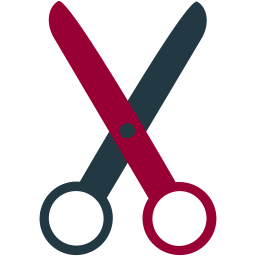
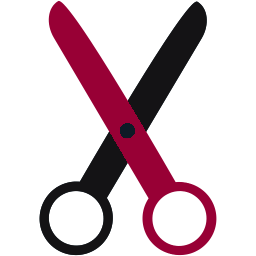
Updating the styles and the copy per Nikki's Feedback

Changed region(s): [[0.125, 0.0, 0.8125, 1.0]]

diff --git a/css/business-casual.min.css b/css/business-casual.min.css
@@ -1,1 +1,1 @@
-body{font-family:'Work Sans';background:linear-gradient(rgba(255,255,255,.65),rgba(216,216,216,.65)),url(../img/bg.jpg)}h1,h2,h3,h4,h5,h6{font-family:Raleway}p{line-height:1.75}.text-faded{color:rgba(255,255,255,.3)}.site-heading{margin-top:2rem;margin-bottom:2rem;line-height:1;font-family:Raleway}.site-heading .site-heading-upper{display:block;font-size:2rem;font-weight:800;letter-spacing:.1em;color:#980035!important}.site-heading .site-heading-lower{font-size:5rem;font-weight:100;line-height:4rem;text-transform:uppercase;color:#223843}.page-section{margin-top:5rem;margin-bottom:5rem}.section-heading{text-transform:uppercase}.section-heading .section-heading-upper{display:block;font-size:1rem;font-weight:800}.section-heading .section-heading-lower{display:block;font-size:3rem;font-weight:100}.bg-faded{background-color:rgba(216,216,216,.85)}#mainNav{background-color:#223843;font-family:Raleway;padding:10px 0!important}#mainNav .navbar-brand{color:#ff5e5b}#mainNav .navbar-nav .nav-item{cursor:pointer}#mainNav .navbar-nav .nav-item .nav-link{color:rgba(255,255,255,.7);border-bottom:2px solid transparent;transition:border-color .5s linear,color .5s linear;font-weight:400}#mainNav .navbar-nav .nav-item .nav-link:hover{color:#fff;border-color:#fff}#mainNav .navbar-nav .nav-item.active .nav-link,#mainNav .navbar-nav .nav-item.active:hover .nav-link{color:#fff;border-color:#980035}@media (min-width:992px){#mainNav .navbar-nav .nav-item .nav-link{font-size:.9rem}#mainNav .navbar-nav .nav-item .nav-link:hover{color:rgba(255,255,255,.4)}#mainNav .navbar-nav .nav-item.active .nav-link:hover{border-color:#fff}}.instagram-icon{width:25px;height:25px;background-image:url(../img/instagram-icon.png);background-repeat:no-repeat;display:inline-block;background-size:cover;vertical-align:middle;margin-right:10px}.btn-xl{font-size:.8rem;padding-top:1.5rem;padding-bottom:1.5rem;padding-left:2rem;padding-right:2rem;box-shadow:0 1px 3px rgba(0,0,0,.12),0 1px 2px rgba(0,0,0,.24);transition:all .3s cubic-bezier(.25,.8,.25,1)}.btn-xl:hover{box-shadow:0 7px 7px rgba(0,0,0,.25),0 10px 10px rgba(0,0,0,.22)}.btn{box-shadow:0 1px 3px rgba(0,0,0,.12),0 1px 2px rgba(0,0,0,.24);transition:all .3s cubic-bezier(.25,.8,.25,1)}.btn:hover{box-shadow:0 7px 7px rgba(0,0,0,.25),0 10px 10px rgba(0,0,0,.22)}.btn-secondary{background:#223843;border:none}.btn-secondary:hover{background:#000}.intro{position:relative}@media (min-width:992px){.intro .intro-img{width:75%;float:right}.intro .intro-text{left:0;width:60%;margin-top:3rem;position:absolute}.intro .intro-text .intro-button{width:100%;left:0;position:absolute;bottom:-2rem}}@media (min-width:1200px){.intro .intro-text{width:45%}}.home-cta{margin:30px auto 0 auto}.page-section.cta{margin-bottom:0}.cta{padding-top:5rem;padding-bottom:5rem;background-color:rgba(152,0,53,.9)}.cta .cta-inner{position:relative;padding:3rem;margin:.5rem;background-color:rgba(255,255,255,.85)}.cta .cta-inner:before{border-radius:.5rem;content:'';position:absolute;top:-.5rem;bottom:-.5rem;left:-.5rem;right:-.5rem;border:.25rem solid rgba(255,255,255,.85)}@media (min-width:992px){.about-heading .about-heading-img{position:relative;z-index:0}.about-heading .about-heading-content{margin-top:-5rem;position:relative;z-index:1}}@media (min-width:992px){.product-item .product-item-title{position:relative;z-index:1;margin-bottom:-3rem}.product-item .product-item-img{position:relative;z-index:0;max-width:60vw}.product-item .product-item-description{position:relative;z-index:1;margin-top:-3rem;max-width:50vw}}.contact-form iframe{max-width:100%;height:800px}.list-hours{font-size:.9rem}.list-hours .list-hours-item{border-bottom:1px solid rgba(152,0,53,.5);padding-bottom:.25rem;margin-bottom:1rem;font-style:italic}.list-hours .list-hours-item.today{font-weight:700;color:#980035}@media (min-width:992px){.list-hours{width:50%;font-size:1.1rem}}.address strong{font-size:1.2rem}.footer{background-color:#223843;padding:15px 0}.footer a{color:#d8d8d8}.text-primary{color:#980035}.bg-primary{background-color:#980035}.btn{box-shadow:0 3px 3px 0 rgba(33,37,41,.1)}.btn-primary{background-color:#980035;border-color:#980035}.btn-primary:active,.btn-primary:focus,.btn-primary:hover{background-color:#650023;border-color:#650023}.font-weight-light{font-weight:100}
+body{font-family:'Work Sans';background:linear-gradient(rgba(255,255,255,.65),rgba(216,216,216,.65)),url(../img/bg.jpg)}h1,h2,h3,h4,h5,h6{font-family:Raleway}p{line-height:1.75}.text-faded{color:rgba(255,255,255,.3)}.site-heading{margin-top:2rem;margin-bottom:2rem;line-height:1;font-family:Raleway}.site-heading .site-heading-upper{display:block;font-size:2rem;font-weight:800;letter-spacing:.1em;color:#980035!important}.site-heading .site-heading-lower{font-size:5rem;font-weight:100;line-height:4rem;text-transform:uppercase;color:#141315}.page-section{margin-top:5rem;margin-bottom:5rem}.section-heading{text-transform:uppercase}.section-heading .section-heading-upper{display:block;font-size:1rem;font-weight:800}.section-heading .section-heading-lower{display:block;font-size:3rem;font-weight:100}.bg-faded{background-color:rgba(216,216,216,.85)}#mainNav{background-color:#141315;font-family:Raleway;padding:10px 0!important}#mainNav .navbar-brand{color:#ff5e5b}#mainNav .navbar-nav .nav-item{cursor:pointer}#mainNav .navbar-nav .nav-item .nav-link{color:rgba(255,255,255,.7);border-bottom:2px solid transparent;transition:border-color .5s linear,color .5s linear;font-weight:400}#mainNav .navbar-nav .nav-item .nav-link:hover{color:#fff;border-color:#fff}#mainNav .navbar-nav .nav-item.active .nav-link,#mainNav .navbar-nav .nav-item.active:hover .nav-link{color:#fff;border-color:#980035}@media (min-width:992px){#mainNav .navbar-nav .nav-item .nav-link{font-size:.9rem}#mainNav .navbar-nav .nav-item .nav-link:hover{color:rgba(255,255,255,.4)}#mainNav .navbar-nav .nav-item.active .nav-link:hover{border-color:#fff}}.instagram-icon{width:25px;height:25px;background-image:url(../img/instagram-icon.png);background-repeat:no-repeat;display:inline-block;background-size:cover;vertical-align:middle;margin-right:10px}.btn-xl{font-size:.8rem;padding-top:1.5rem;padding-bottom:1.5rem;padding-left:2rem;padding-right:2rem;box-shadow:0 1px 3px rgba(0,0,0,.12),0 1px 2px rgba(0,0,0,.24);transition:all .3s cubic-bezier(.25,.8,.25,1)}.btn-xl:hover{box-shadow:0 7px 7px rgba(0,0,0,.25),0 10px 10px rgba(0,0,0,.22)}.btn{box-shadow:0 1px 3px rgba(0,0,0,.12),0 1px 2px rgba(0,0,0,.24);transition:all .3s cubic-bezier(.25,.8,.25,1)}.btn:hover{box-shadow:0 7px 7px rgba(0,0,0,.25),0 10px 10px rgba(0,0,0,.22)}.btn-secondary{background:#141315;border:none}.btn-secondary:hover{background:#000}.intro{position:relative}@media (min-width:992px){.intro .intro-img{width:75%;float:right}.intro .intro-text{left:0;width:60%;margin-top:3rem;position:absolute}.intro .intro-text .intro-button{width:100%;left:0;position:absolute;bottom:-2rem}}@media (min-width:1200px){.intro .intro-text{width:45%}}.home-cta{margin:30px auto 0 auto}.page-section.cta{margin-bottom:0}.cta{padding-top:5rem;padding-bottom:5rem;background-color:rgba(152,0,53,.9)}.cta .cta-inner{position:relative;padding:3rem;margin:.5rem;background-color:rgba(255,255,255,.85)}.cta .cta-inner:before{border-radius:.5rem;content:'';position:absolute;top:-.5rem;bottom:-.5rem;left:-.5rem;right:-.5rem;border:.25rem solid rgba(255,255,255,.85)}@media (min-width:992px){.about-heading .about-heading-img{position:relative;z-index:0}.about-heading .about-heading-content{margin-top:-5rem;position:relative;z-index:1}}@media (min-width:992px){.product-item .product-item-title{position:relative;z-index:1;margin-bottom:-3rem}.product-item .product-item-img{position:relative;z-index:0;max-width:60vw}.product-item .product-item-description{position:relative;z-index:1;margin-top:-3rem;max-width:50vw}}.contact-form iframe{max-width:100%;height:800px}.list-hours{font-size:.9rem}.list-hours .list-hours-item{border-bottom:1px solid rgba(152,0,53,.5);padding-bottom:.25rem;margin-bottom:1rem;font-style:italic}.list-hours .list-hours-item.today{font-weight:700;color:#980035}@media (min-width:992px){.list-hours{width:50%;font-size:1.1rem}}.address strong{font-size:1.2rem}.footer{background-color:#141315;padding:15px 0}.footer a{color:#d8d8d8}.text-primary{color:#980035}.bg-primary{background-color:#980035}.btn{box-shadow:0 3px 3px 0 rgba(33,37,41,.1)}.btn-primary{background-color:#980035;border-color:#980035}.btn-primary:active,.btn-primary:focus,.btn-primary:hover{background-color:#650023;border-color:#650023}.font-weight-light{font-weight:100}

diff --git a/contact.html b/contact.html
@@ -72,7 +72,7 @@
                   <span class="section-heading-lower"> Book a Hair Appointment Today!</span>
                 </h2>
                 <p>
-                   I am available for Women, Mens and Kids Haircuts & Blowouts. You can find me at The Bohemian Fringe Studio Salon located in • Saint James New York is my very own Studio Salon that opened up early in 2017 or you can find me at <a href="http://www.metanewyork.com/" target="_blank">Metamorphosis NY </a>
+                   I am available for Women, Mens and Kids Haircuts & Blowouts. You can find me at The Bohemian Fringe Studio Salon located in • Saint James New York is my very own Studio Salon that opened up early in 2017 or you can find me working with <a href="http://www.metanewyork.com/" target="_blank">Metamorphosis NY </a>
                 </p>
                 <p>
                   My salon proudly uses a wide range of products, but I pride on using as many eco-friendly, none animal tested and hypoallergenic products as possible. </p>
@@ -80,8 +80,8 @@
                 </p>
 
 
-                <p>You can reach out to me at <a href="mailto:nikleesanto@gmail.com">nikleesanto@gmail.com</a>
-                or fill out the contact form below</p>
+                <p>You can reach out to me at <a href="mailto:nikleesanto@gmail.com">nikleesanto@gmail.com</a> or call me at: 631.255.6016 <br />
+                You can also fill out the contact form below and I'll be in touch shortly!</p>
                  <div class="contact-form container">
                   <iframe src="https://docs.google.com/forms/d/e/1FAIpQLSeB1PRaDSIwANmdluNkyRCceLDJ-vxcdJXFHGccKJOpDwNo1g/viewform?embedded=true" width="760" height="800" frameborder="0" marginheight="0" marginwidth="0">Loading...</iframe>
                 </div>

diff --git a/css/business-casual.css b/css/business-casual.css
@@ -40,7 +40,7 @@ p {
   font-weight: 100;
   line-height: 4rem;
   text-transform: uppercase;
-  color: #223843;
+  color: #141315;
 }
 
 .page-section {
@@ -69,7 +69,7 @@ p {
 }
 
 #mainNav {
-  background-color: #223843;
+  background-color: #141315;
   font-family: 'Raleway';
   padding: 10px 0 !important;
 }
@@ -146,7 +146,7 @@ p {
 }
 
 .btn-secondary {
-  background: #223843;
+  background: #141315;
   border: none;
 }
 
@@ -279,7 +279,7 @@ p {
 }
 
 .footer {
-  background-color: #223843;
+  background-color: #141315;
   padding: 15px 0;
 }
 

diff --git a/scss/_variables.scss b/scss/_variables.scss
@@ -2,7 +2,7 @@
 
 // Restated Bootstrap Variables
 $dark-red: #980035;
-$dark-gray: #223843;
+$dark-gray: #141315;
 $pink: #FF5E5B;
 $light-gray: #d8d8d8;
 $white: #fff !default;
